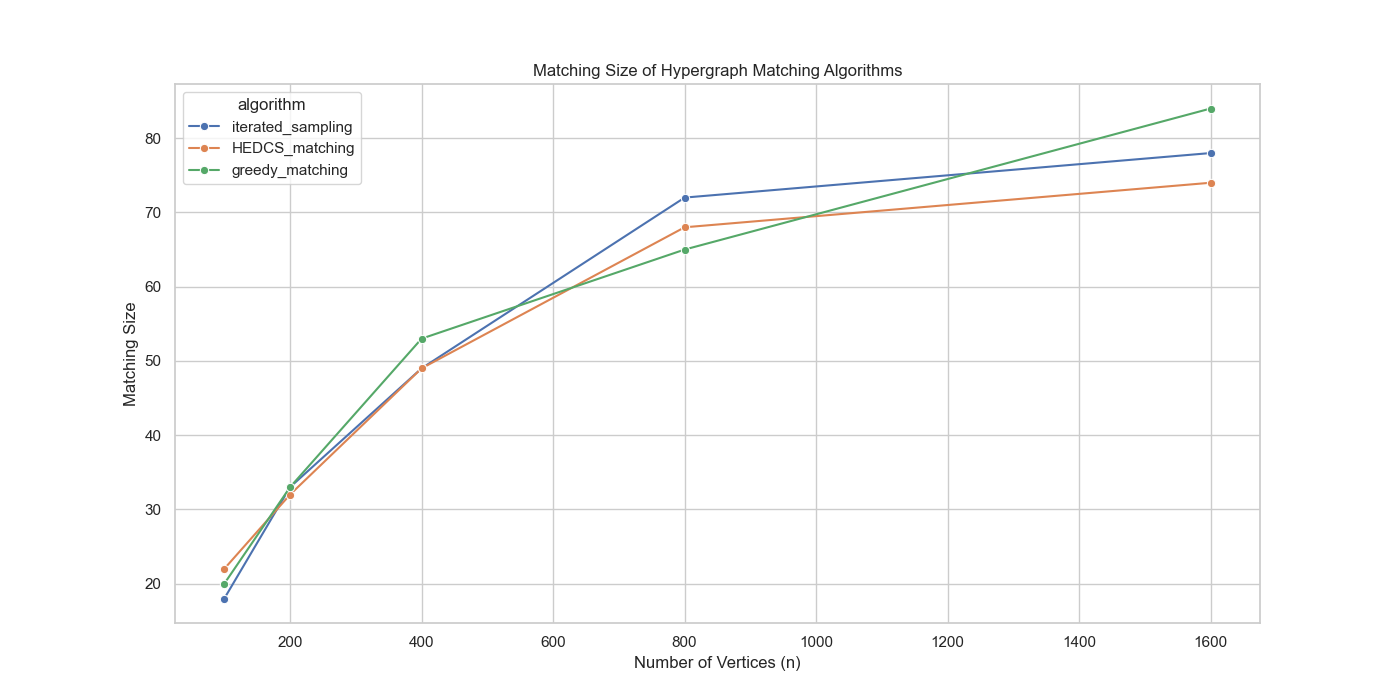
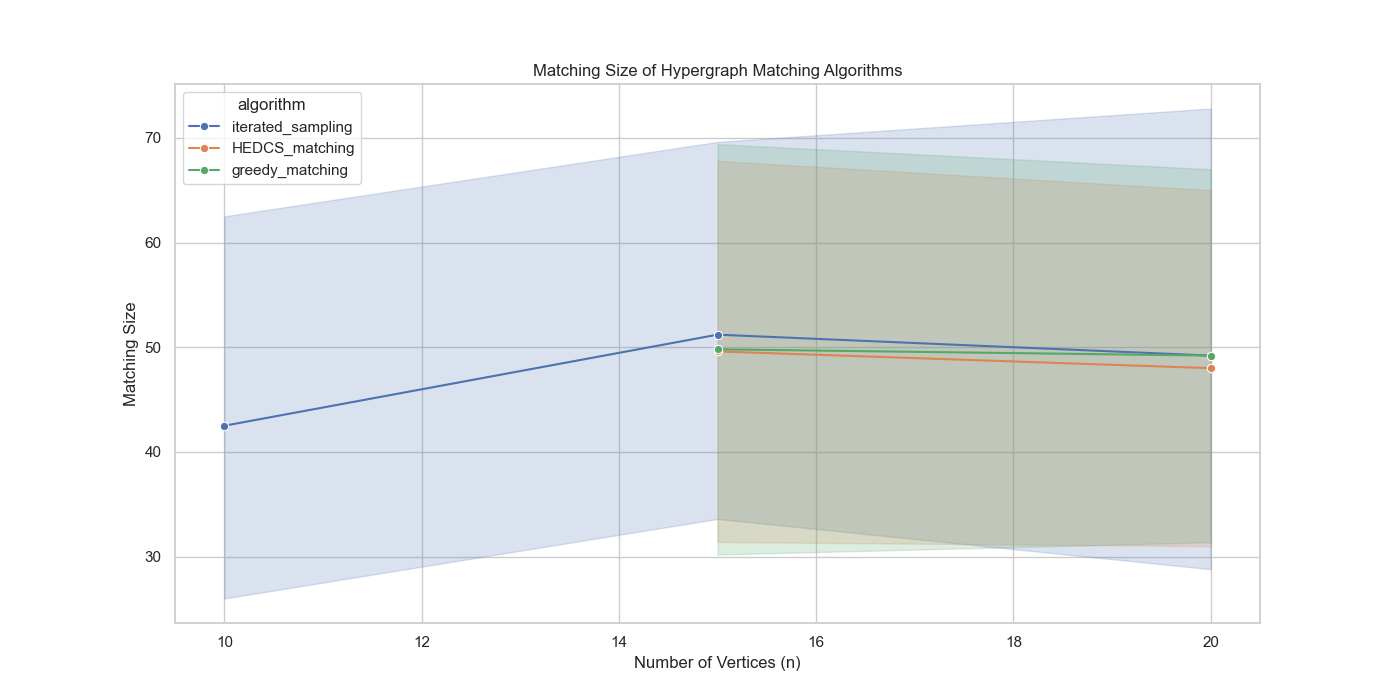
remove backup folder

diff --git a/simulations/experiments.py b/simulations/experiments.py
@@ -18,13 +18,15 @@ from hypernetx.algorithms.matching_algorithms import (
     MemoryLimitExceededError,
     NonUniformHypergraphError,
     partition_hypergraph,
-    approximation_matching_checking,
     greedy_matching,
+    logger as matching_logger
 )
 
 # Initialize logging
 logging.basicConfig(level=logging.INFO)
 logger = logging.getLogger(__name__)
+
+# matching_logger.setLevel(logging.DEBUG)
 
 # Function to generate random d-uniform hypergraphs
 def generate_random_hypergraph(n, d, m):
@@ -62,15 +64,14 @@ def define_experiment():
     m = 100
     s = 10
 
-    for n in sizes:
-        input_ranges = {
-            "algorithm": [iterated_sampling, HEDCS_matching, greedy_matching],
-            "n": [n],
-            "d": [d],
-            "m": [m],
-            "s": [s]
-        }
-        experiment.run(run_experiment, input_ranges)
+    input_ranges = {
+        "algorithm": [iterated_sampling, HEDCS_matching, greedy_matching],
+        "n": sizes,
+        "d": [d],
+        "m": [m],
+        "s": [15, 20]
+    }
+    experiment.run(run_experiment, input_ranges)
 
     return experiment
 
@@ -83,7 +84,7 @@ if __name__ == "__main__":
     sns.set(style="whitegrid")
     plt.figure(figsize=(14, 7))
 
-    sns.lineplot(data=df, x="n", y="run_time", hue="algorithm", marker="o")
+    sns.lineplot(data=df, x="s", y="run_time", hue="algorithm", marker="o")
     plt.title("Running Time of Hypergraph Matching Algorithms")
     plt.xlabel("Number of Vertices (n)")
     plt.ylabel("Running Time (seconds)")
@@ -91,7 +92,7 @@ if __name__ == "__main__":
     plt.show()
 
     plt.figure(figsize=(14, 7))
-    sns.lineplot(data=df, x="n", y="match_size", hue="algorithm", marker="o")
+    sns.lineplot(data=df, x="s", y="match_size", hue="algorithm", marker="o")
     plt.title("Matching Size of Hypergraph Matching Algorithms")
     plt.xlabel("Number of Vertices (n)")
     plt.ylabel("Matching Size")

diff --git a/hypernetx/algorithms/matching_algorithms.py b/hypernetx/algorithms/matching_algorithms.py
@@ -260,10 +260,11 @@ def iterated_sampling(hypergraph: Hypergraph, s: int, max_iterations: int = 100)
             raise MemoryLimitExceededError("Memory limit exceeded during hypergraph matching")
 
         M.extend(M_prime)
-        logger.debug(f"After iteration {iterations}, matching: {M}")
+        logger.debug(f"After iteration {iterations}, matching has {len(M)} edges: {M}")
 
         unmatched_vertices = set(S.nodes) - set(v for edge in M_prime for v in edge)
         induced_edges = [edge for edge in S.incidence_dict.values() if all(v in unmatched_vertices for v in edge)]
+        logger.debug(f"After iteration {iterations}, {len(unmatched_vertices)} unmatched_vertices: {unmatched_vertices}, {len(induced_edges)} remaining edges: {induced_edges}")
         if len(induced_edges) <= s:
             M.extend(maximal_matching(hnx.Hypergraph({f'e{i}': tuple(edge) for i, edge in enumerate(induced_edges)})))
             break
@@ -271,7 +272,7 @@ def iterated_sampling(hypergraph: Hypergraph, s: int, max_iterations: int = 100)
         p = s / (5 * len(S.edges) * d) if len(S.edges) > 0 else 0
 
     if iterations >= max_iterations:
-        raise MemoryLimitExceededError("Max iterations reached without finding a solution")
+        raise MemoryLimitExceededError("Max iterations %d reached without finding a solution. Edges: %s", max_iterations, hypergraph.incidence_dict)
 
     logger.debug(f"Final matching result: {M}")
     return M
